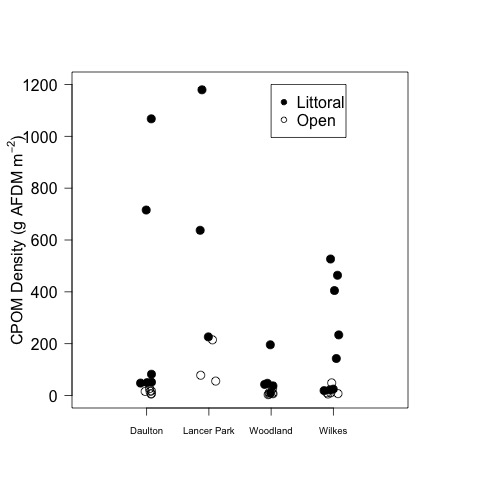
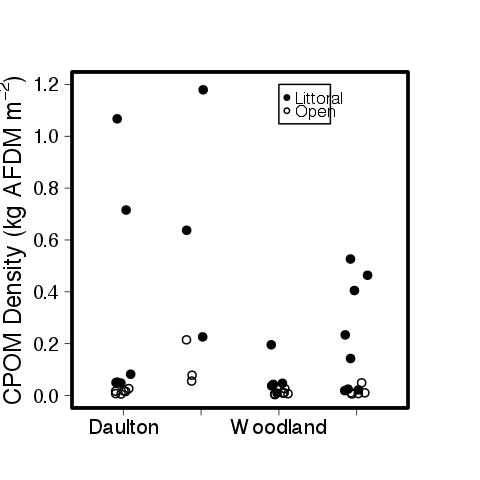
ASB Poster

diff --git a/lab_notebook/analysis/CPOM_survey_2013_analysis.md b/lab_notebook/analysis/CPOM_survey_2013_analysis.md
@@ -91,7 +91,7 @@ There is potentially a bias introduced by the lakes because most of the samples 
 
 ~~~~
 
-> tapply(survey$CPOM.AFDM, survey$lake, length)
+ tapply(survey$CPOM.AFDM, survey$lake, length)
  DP LPP  WC  WL 
  12   6  12  24 
 >
@@ -122,19 +122,19 @@ $WL
 
 ~~~~
 
-    par(las = 1)
-    plot(jitter(rep(1, length(survey$CPOM.AFDM[survey$lake == "DP" & survey$location == "littoral"])), 5), survey$CPOM.AFDM[survey$lake == "DP" & survey$location == "littoral"], pch = 19, cex = 1.5, xlim = c(0, 5), ylim = c(0, 1200), axes = F, xlab = " ", ylab = expression(paste("CPOM Density (g AFDM m"^{-2}, ")")))
-    points(jitter(rep(1, length(survey$CPOM.AFDM[survey$lake == "DP" & survey$location == "open"])), 5), survey$CPOM.AFDM[survey$lake == "DP" & survey$location == "open"], cex = 1.5)
-    points(jitter(rep(2, length(survey$CPOM.AFDM[survey$lake == "LPP" & survey$location == "littoral"])), 5), survey$CPOM.AFDM[survey$lake == "LPP" & survey$location == "littoral"], pch = 19, cex = 1.5)
-    points(jitter(rep(2, length(survey$CPOM.AFDM[survey$lake == "LPP" & survey$location == "open"])), 5), survey$CPOM.AFDM[survey$lake == "LPP" & survey$location == "open"], cex = 1.5)
-    points(jitter(rep(3, length(survey$CPOM.AFDM[survey$lake == "WC" & survey$location == "littoral"])), 2), survey$CPOM.AFDM[survey$lake == "WC" & survey$location == "littoral"], pch = 19, cex =1.5)
-    points(jitter(rep(3, length(survey$CPOM.AFDM[survey$lake == "WC" & survey$location == "open"])), 2), survey$CPOM.AFDM[survey$lake == "WC" & survey$location == "open"], cex = 1.5)
-       points(jitter(rep(4, length(survey$CPOM.AFDM[survey$lake == "WL" & survey$location == "littoral"])), 2), survey$CPOM.AFDM[survey$lake == "WL" & survey$location == "littoral"], pch = 19, cex = 1.5)
-    points(jitter(rep(4, length(survey$CPOM.AFDM[survey$lake == "WL" & survey$location == "open"])), 2), survey$CPOM.AFDM[survey$lake == "WL" & survey$location == "open"], cex = 1.5)
-    axis(1, at = c(1, 2, 3, 4), labels = c("Daulton", "Lancer Park", "Woodland", "Wilkes"), tick = T, cex.axis = 0.9)
-    axis(2)
-    box()
-    legend(3, 1200, c("Littoral", "Open"), pch = c(19, 1))
+    par(las = 1, mar = c(5, 5, 5, 5))
+    plot(jitter(rep(1, length(survey$CPOM.AFDM[survey$lake == "DP" & survey$location == "littoral"])), 5), survey$CPOM.AFDM[survey$lake == "DP" & survey$location == "littoral"]/1000, pch = 19, cex = 1.5, cex.lab = 1.5, xlim = c(0.5, 4.5), ylim = c(0, 1.2), axes = F, xlab = " ", ylab = expression(paste("CPOM Density (kg AFDM m"^{-2}, ")")))
+    points(jitter(rep(1, length(survey$CPOM.AFDM[survey$lake == "DP" & survey$location == "open"])), 5), survey$CPOM.AFDM[survey$lake == "DP" & survey$location == "open"]/1000, cex = 1.5)
+    points(jitter(rep(2, length(survey$CPOM.AFDM[survey$lake == "LPP" & survey$location == "littoral"])), 5), survey$CPOM.AFDM[survey$lake == "LPP" & survey$location == "littoral"]/1000, pch = 19, cex = 1.5)
+    points(jitter(rep(2, length(survey$CPOM.AFDM[survey$lake == "LPP" & survey$location == "open"])), 5), survey$CPOM.AFDM[survey$lake == "LPP" & survey$location == "open"]/1000, cex = 1.5)
+    points(jitter(rep(3, length(survey$CPOM.AFDM[survey$lake == "WC" & survey$location == "littoral"])), 2), survey$CPOM.AFDM[survey$lake == "WC" & survey$location == "littoral"]/1000, pch = 19, cex =1.5)
+    points(jitter(rep(3, length(survey$CPOM.AFDM[survey$lake == "WC" & survey$location == "open"])), 2), survey$CPOM.AFDM[survey$lake == "WC" & survey$location == "open"]/1000, cex = 1.5)
+       points(jitter(rep(4, length(survey$CPOM.AFDM[survey$lake == "WL" & survey$location == "littoral"])), 2), survey$CPOM.AFDM[survey$lake == "WL" & survey$location == "littoral"]/1000, pch = 19, cex = 1.5)
+    points(jitter(rep(4, length(survey$CPOM.AFDM[survey$lake == "WL" & survey$location == "open"])), 2), survey$CPOM.AFDM[survey$lake == "WL" & survey$location == "open"]/1000, cex = 1.5)
+    axis(1, at = c(1, 2, 3, 4), labels = c("Daulton", "Lancer Park", "Woodland", "Wilkes"), tick = T, cex.axis = 1.3)
+    axis(2, cex.axis = 1.2)
+    box(lwd = 5)
+    legend(3, 1.2, c("Littoral  ", "Open  "), pch = c(19, 1))
     dev.copy(jpeg, "./output/plots/CPOM_Dens_by_lake_scatter.jpg")
     dev.off()
 
